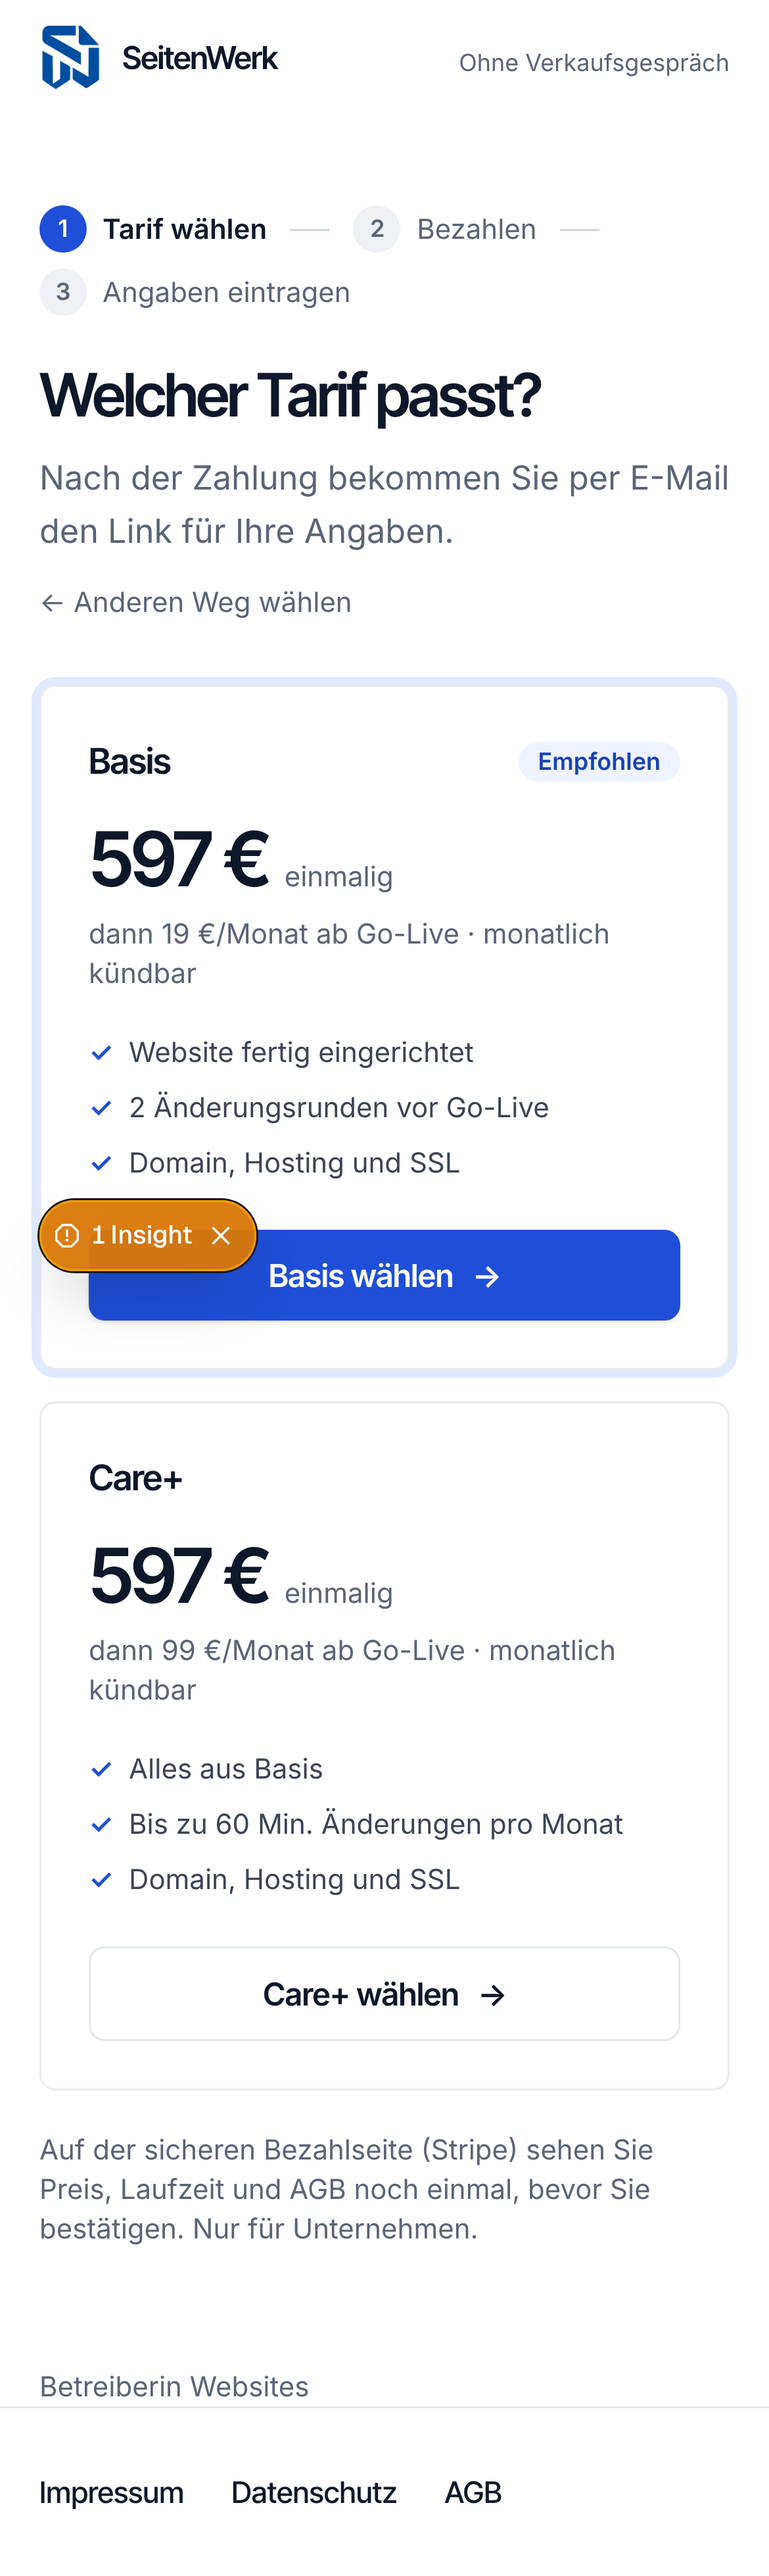
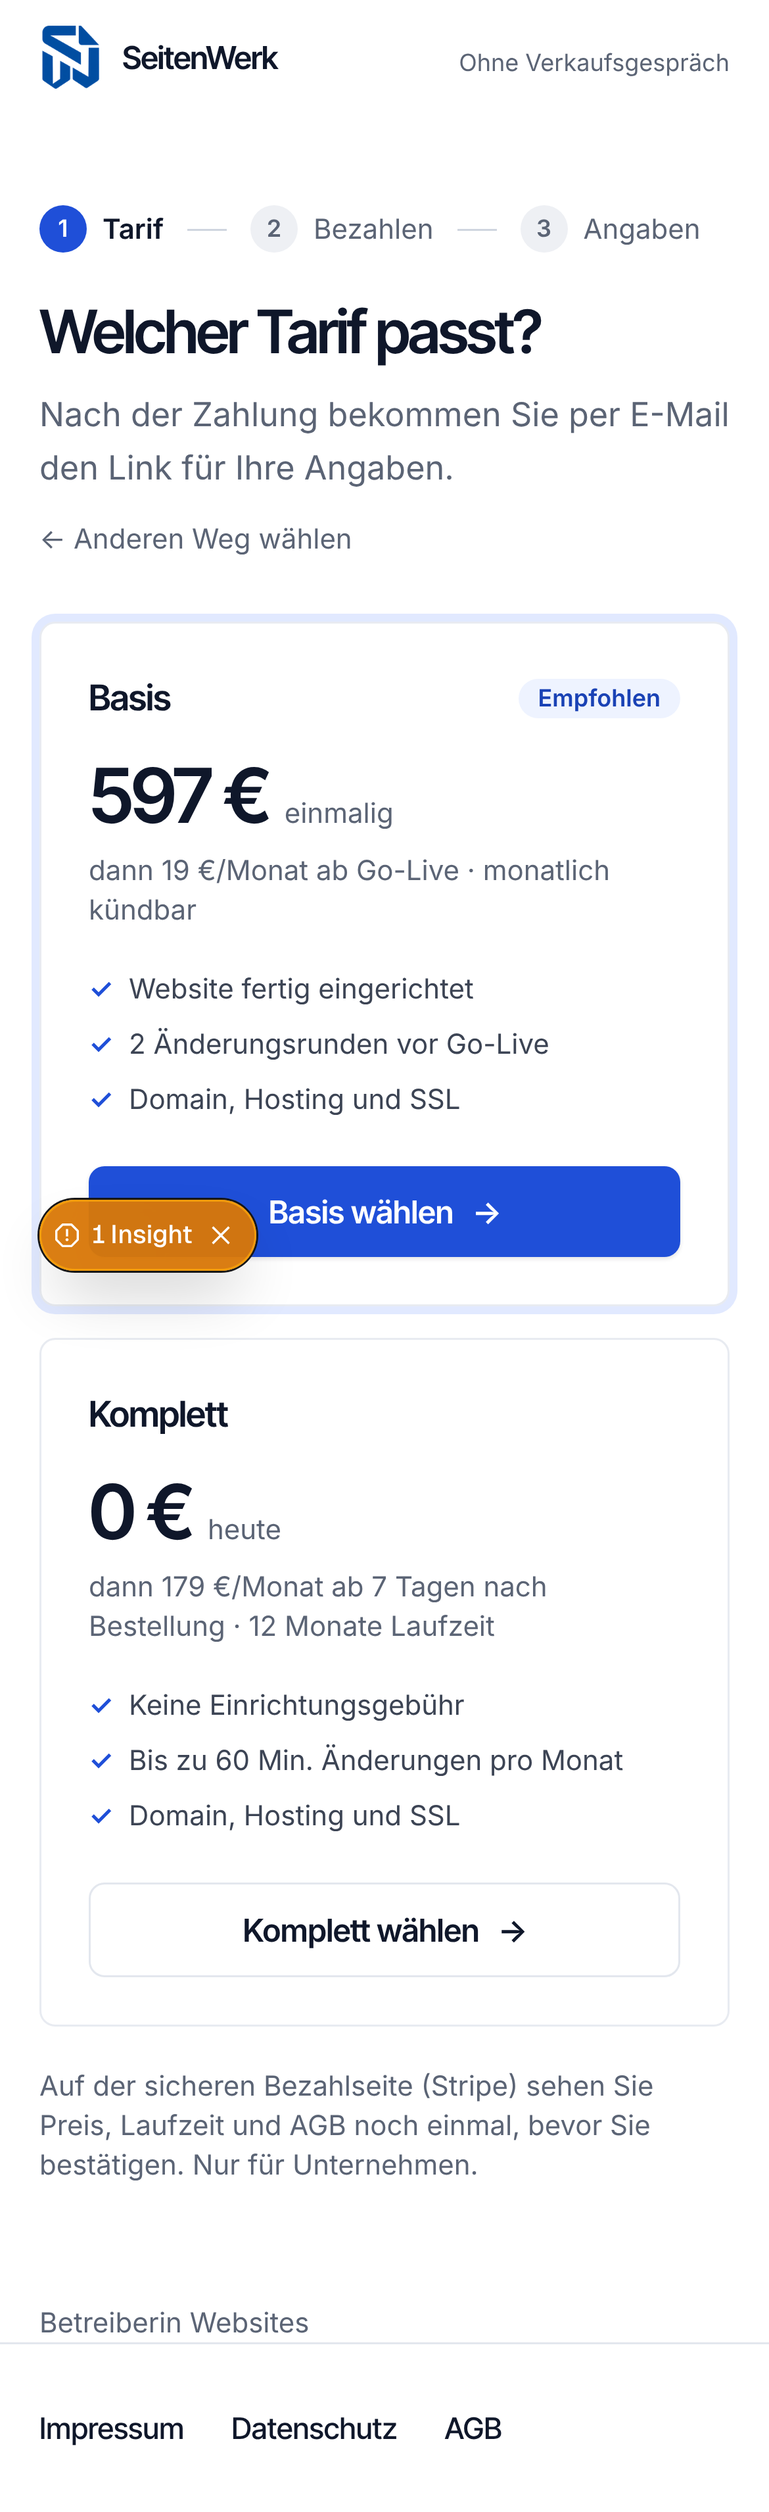
Prüfseite kompakt: Tarife zuerst, Angaben eingeklappt, Komplett nur mit passenden AGB [skip ci] [skip netlify]
Claude-Session: https://claude.ai/code/session_011b6YmAwVYdQU7Uku4m3FhJ

diff --git a/apps/web/src/app/einrichten/[slug]/pruefen/page.tsx b/apps/web/src/app/einrichten/[slug]/pruefen/page.tsx
@@ -11,12 +11,13 @@ import {
   publicOperatorSettings,
   setupCookieName,
   setupFingerprint,
+  komplettTermsCurrent,
   v4CheckoutTerms,
   v4Offer,
   v4OfferedTiers,
   v4TierLabel,
 } from '@wbm/core';
-import { PublicShell, PublicCard } from '@/components/public/shell';
+import { PublicShell } from '@/components/public/shell';
 import { StepHeader } from '@/components/public/steps';
 import { PaymentForm } from './payment-form';
 export const dynamic = 'force-dynamic';
@@ -41,24 +42,21 @@ export default async function ReviewSetup({
   const data = d.data;
   const options =
     ctx.cfg.offers.activeVersion === 'v4'
-      ? v4OfferedTiers(ctx.cfg).map((plan) => ({
-          plan,
-          title: v4TierLabel(plan),
-          price:
-            plan === 'komplett'
-              ? `0 € Einrichtung · ${euro(v4Offer(plan).monthlyCents)}/Monat, erste Abbuchung 7 Tage nach der Bestellung · 12 Monate Mindestlaufzeit`
-              : `${euro(planAmounts(ctx.cfg, plan).grossCents)} einmalig + insgesamt ${euro(v4Offer(plan).monthlyCents)}/Monat ab Go-Live`,
-          terms: v4CheckoutTerms(plan, ctx.cfg.offers.billingMode ?? 'saved_mandate'),
-          // Klare Preiszusammenfassung: was heute fällig ist; Kaufmodell als „Empfohlen“ markiert, keine Vorauswahl
-          dueNow: plan === 'komplett' ? '0 € (nur Zahlungsmittel hinterlegen)' : euro(planAmounts(ctx.cfg, plan).grossCents),
-          recommended: plan === 'basis' && v4OfferedTiers(ctx.cfg).includes('komplett'),
-          includes:
-            plan === 'basis'
-              ? `Fertigstellung Ihrer Website, ${ctx.cfg.onboarding.includedChangeRounds} Änderungsrunden vor Go-Live, Standard-Domain im vereinbarten Kostenrahmen, Hosting, SSL und Basis-Support bei Betriebsstörungen.`
-              : plan === 'komplett'
-                ? `Alle Basis-Leistungen ohne Einrichtungsgebühr und zusätzlich bis zu ${v4Offer(plan).includedChangeMinutes} Minuten vereinbarte Änderungen pro Monat. Bei der Bestellung wird nichts abgebucht.`
-                : `Alle Basis-Leistungen und zusätzlich bis zu ${v4Offer(plan).includedChangeMinutes} Minuten vereinbarte Änderungen pro Monat. Care+ enthält die Basisgebühr vollständig.`,
-        }))
+      ? v4OfferedTiers(ctx.cfg)
+          .filter((plan) => plan !== 'komplett' || komplettTermsCurrent(ctx.cfg))
+          .map((plan) => ({
+            plan,
+            title: v4TierLabel(plan),
+            // 19.11.2026 (Betreiber: „so richtig viel“): heute fällig groß, darunter eine Zeile; Vertragstext eingeklappt
+            dueNow: plan === 'komplett' ? '0 €' : euro(planAmounts(ctx.cfg, plan).grossCents),
+            price:
+              plan === 'komplett'
+                ? `dann ${euro(v4Offer(plan).monthlyCents)}/Monat ab 7 Tagen nach Bestellung · 12 Monate Laufzeit`
+                : `dann ${euro(v4Offer(plan).monthlyCents)}/Monat ab Go-Live · monatlich kündbar`,
+            terms: v4CheckoutTerms(plan, ctx.cfg.offers.billingMode ?? 'saved_mandate'),
+            recommended: false,
+            includes: '',
+          }))
       : [
           {
             plan: 'one_time',
@@ -83,8 +81,17 @@ export default async function ReviewSetup({
           Bestätigung ausgelöst.
         </p>
       ) : null}
-      <PublicCard>
-        <h2 className="font-tight text-lg font-semibold tracking-[-0.02em]">Ihre Angaben</h2>
+      <PaymentForm slug={slug} fingerprint={setupFingerprint(data, d.assetKeys)} options={options}>
+      <details className="card-site group p-5">
+        <summary className="flex cursor-pointer list-none items-center justify-between gap-3 [&::-webkit-details-marker]:hidden">
+          <span>
+            <span className="block text-xs font-semibold tracking-wide text-slate-500 uppercase">Ihre Angaben</span>
+            <span className="mt-1 block font-semibold text-slate-900">{data.business.name}</span>
+            <span className="block text-sm text-slate-500">{data.domain}</span>
+          </span>
+          <span className="text-brand-700 shrink-0 text-sm font-semibold group-open:hidden">Ansehen</span>
+          <span className="text-brand-700 hidden shrink-0 text-sm font-semibold group-open:inline">Schließen</span>
+        </summary>
         <dl className="mt-4 grid gap-x-6 gap-y-4 text-sm sm:grid-cols-2">
           <div>
             <dt className="text-xs font-semibold tracking-wide text-slate-500 uppercase">Betrieb</dt>
@@ -194,8 +201,8 @@ export default async function ReviewSetup({
             </p>
           </div>
         </details>
-      </PublicCard>
-      <PaymentForm slug={slug} fingerprint={setupFingerprint(data, d.assetKeys)} options={options} />
+      </details>
+      </PaymentForm>
       <p className="mt-6 text-sm text-slate-500">
         Fragen?{' '}
         <a className="underline" href={`mailto:${cfg.sender.email}`}>

diff --git a/apps/web/src/app/einrichten/[slug]/pruefen/payment-form.tsx b/apps/web/src/app/einrichten/[slug]/pruefen/payment-form.tsx
@@ -1,5 +1,5 @@
 'use client';
-import { useActionState } from 'react';
+import { useActionState, type ReactNode } from 'react';
 import { paySetup } from '../actions';
 
 /** Tarif wählen und bezahlen (Weg „Angaben zuerst“), 19.11.2026 im Stil der Tarifkarten neu gestaltet. */
@@ -7,6 +7,7 @@ export function PaymentForm({
   slug,
   fingerprint,
   options,
+  children,
 }: {
   slug: string;
   fingerprint: string;
@@ -19,6 +20,8 @@ export function PaymentForm({
     recommended?: boolean;
     dueNow?: string;
   }[];
+  /** zwischen Tarif und Häkchen: eingeklappte Zusammenfassung der Angaben */
+  children?: ReactNode;
 }) {
   const [state, action, pending] = useActionState(paySetup.bind(null, slug), {});
   const check = 'mt-0.5 h-5 w-5 shrink-0 accent-brand-600';
@@ -31,7 +34,7 @@ export function PaymentForm({
           {options.map((o) => (
             <label
               key={o.plan}
-              className="card-site has-checked:border-brand-600 has-checked:ring-brand-100 flex cursor-pointer flex-col p-6 transition-shadow has-checked:ring-4"
+              className="card-site has-checked:border-brand-600 has-checked:ring-brand-100 flex cursor-pointer flex-col p-5 transition-shadow has-checked:ring-4"
             >
               <span className="flex items-center justify-between gap-3">
                 <span className="flex items-center gap-3">
@@ -43,16 +46,16 @@ export function PaymentForm({
                 ) : null}
               </span>
               {o.dueNow ? (
-                <span className="mt-4 block">
-                  <span className="font-tight text-[2rem] leading-none font-semibold tracking-[-0.04em] text-slate-900">
+                <span className="mt-3 block pl-8">
+                  <span className="font-tight text-[1.9rem] leading-none font-semibold tracking-[-0.04em] text-slate-900">
                     {o.dueNow}
                   </span>
                   <span className="ml-2 text-sm text-slate-500">heute</span>
                 </span>
               ) : null}
-              <span className="mt-2 block text-sm font-medium text-slate-700">{o.price}</span>
-              <span className="mt-3 block text-sm text-slate-600">{o.includes}</span>
-              <details className="mt-3 text-xs text-slate-500">
+              <span className="mt-1 block pl-8 text-sm text-slate-600">{o.price}</span>
+              {o.includes ? <span className="mt-2 block pl-8 text-sm text-slate-600">{o.includes}</span> : null}
+              <details className="mt-2 pl-8 text-xs text-slate-500">
                 <summary className="cursor-pointer">Vertragsdetails</summary>
                 <span className="mt-2 block">{o.terms}</span>
               </details>
@@ -60,7 +63,8 @@ export function PaymentForm({
           ))}
         </div>
       </fieldset>
-      <div className="card-site space-y-4 p-6 text-sm">
+      {children}
+      <div className="space-y-3 text-sm">
         <label className="flex items-start gap-3">
           <input type="checkbox" name="b2b" required className={check} />
           <span>Ich bestelle für mein Unternehmen.</span>
